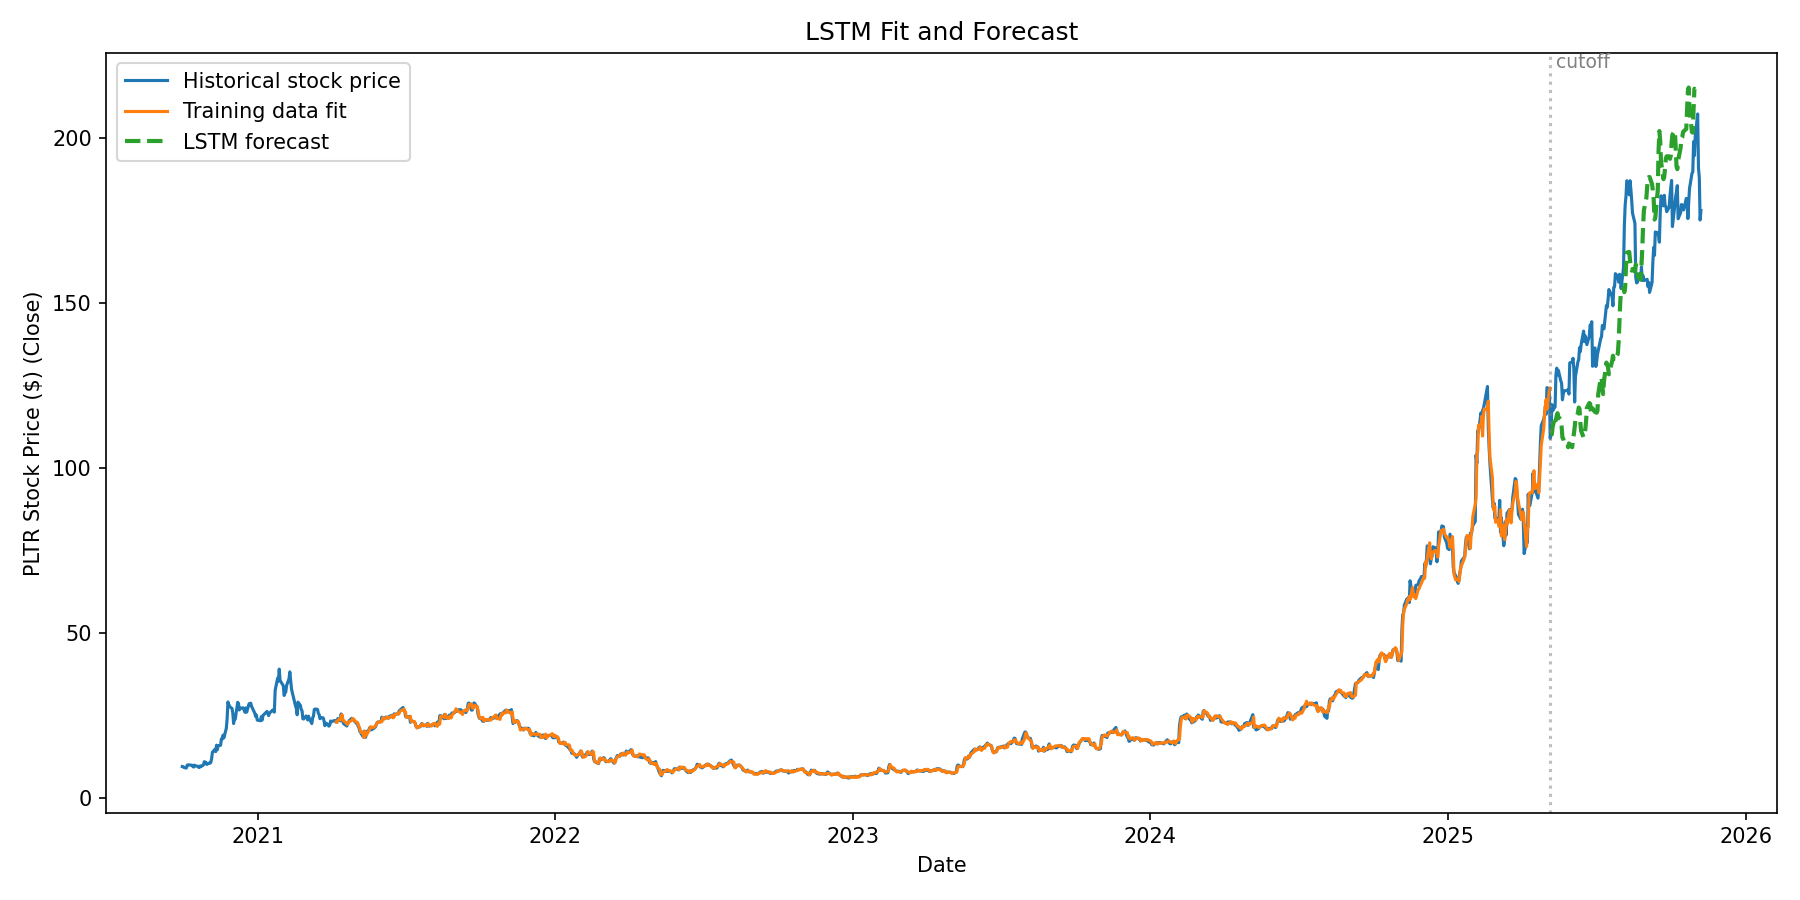
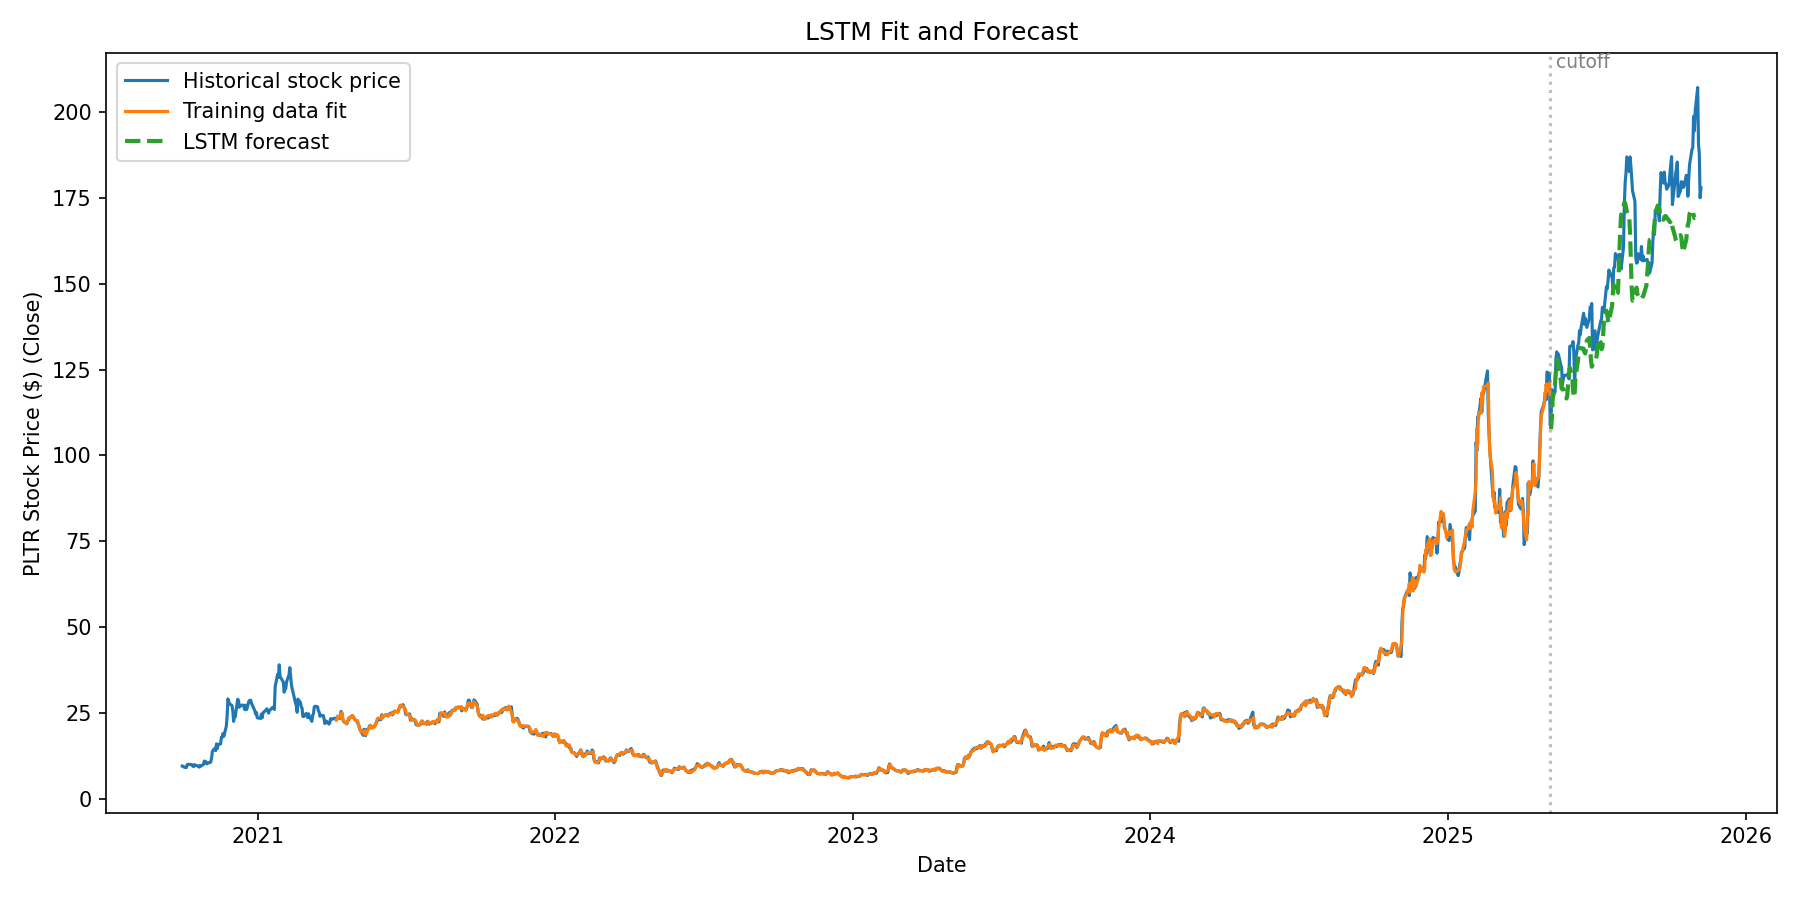
Deep layers and dropout probability included

diff --git a/train_lstm.py b/train_lstm.py
@@ -39,12 +39,14 @@ import sys
 
 # ---------------- Hyper-parameters ----------------
 cutoff = 0.9            # Fraction of data (from start) used for training
-horizon = 270           # Number of future week days for forecasting (weekends ignored)
-seq_len = 270           # Lookback window length, e.g. 1 (daily), 30 (monthly), 90 (quarterly)
+horizon = 128           # Number of future week days for forecasting (weekends ignored)
+seq_len = 128           # Lookback window length, e.g. 1 (daily), 30 (monthly), 90 (quarterly)
 hidden_len = 64         # Dimension of the hidden state
 epochs = 1000           # Number of iterations 
 batch_size = 64         # Number of training samples processed per optimizer step
 lr = 1e-3               # Learning rate
+num_layers = 2          # Number of deep layers
+dropout = 0.4           # Dropout probability
 
 # ────────────────────────────────────────────────────────────────────────────────
 # Helper utilities
@@ -149,8 +151,6 @@ def main():
     ap.add_argument("--csv", required=True, type=str, help="CSV with Date,Open,High,Low,Close,Volume")
     ap.add_argument("--feature", default="Close", type=str)
     ap.add_argument("--target", default="logretrun", choices=["pirce", "logreturn", "delta".replace(",", "")], help="Prediction target (default: logretrun)")
-    ap.add_argument("--num_layers", default=1, type=int)
-    ap.add_argument("--dropout", default=0.0, type=float)
     ap.add_argument("--normalize", default="standard", choices=["standard", "minmax"], help="Normalization on target series (default: standard)")
     ap.add_argument("--outdir", default="artifacts", type=str)
     args = ap.parse_args()
@@ -217,6 +217,8 @@ def main():
 
     # ---------------- Normalization on training only data in target space ----------------
     work_train = work[:cutoff_idx_work]
+
+    # Minmax normalization
     if args.normalize == "minmax":
         w_min, w_max = float(np.min(work_train)), float(np.max(work_train))
         if w_max == w_min:
@@ -224,10 +226,14 @@ def main():
         def norm(v):   return (v - w_min) / (w_max - w_min)
         def denorm(v): return v * (w_max - w_min) + w_min
         norm_params = {"type": "minmax", "min": w_min, "max": w_max}
+    # Standardization (Z-Score normalization)
     else:
-        mu, sigma = float(np.mean(work_train)), float(np.std(work_train) + 1e-12)
-        def norm(v):   return (v - mu) / sigma
-        def denorm(v): return v * sigma + mu
+        mu = float(np.mean(work_train)) # Mean
+        sigma = float(np.std(work_train) + 1e-12) # Standard deviation
+        def norm(v):
+            return (v - mu) / sigma
+        def denorm(v):
+            return v * sigma + mu
         norm_params = {"type": "standard", "mean": mu, "std": sigma}
     work_norm = norm(work)
 
@@ -235,7 +241,7 @@ def main():
     X_all, Y_all = make_sequences_multi(work_norm, seq_len, horizon)
 
     # Each label corresponds to the first horizon step at work index i
-    label_indices = np.arange(seq_len, Nw - horizon + 1)
+    label_indices = np.arange(seq_len, Nw - horizon + 1) # e.g. [270, 271, ... , 2460]
     train_mask = label_indices < cutoff_idx_work
     X_train, Y_train = X_all[train_mask], Y_all[train_mask]
 
@@ -245,7 +251,7 @@ def main():
     # ---------------- 1. The model ----------------
     device = torch.device("cuda" if torch.cuda.is_available() else "cpu")
     print_device_info()
-    model = LSTMRegressor(input_size=1, hidden_len=hidden_len, num_layers=args.num_layers, dropout=args.dropout, horizon=horizon).to(device)
+    model = LSTMRegressor(input_size=1, hidden_len=hidden_len, num_layers=num_layers, dropout=dropout, horizon=horizon).to(device)
 
     # ---------------- 2. Loss and optimizer ----------------
     loss_fn = nn.MSELoss()
@@ -293,8 +299,8 @@ def main():
         "horizon": horizon,
         "seq_len": seq_len,
         "hidden_len": hidden_len,
-        "num_layers": args.num_layers,
-        "dropout": args.dropout,
+        "num_layers": num_layers,
+        "dropout": dropout,
         "cutoff": cutoff,
         "normalize": norm_params,
         "optimizer": "adam",

diff --git a/predict_lstm.py b/predict_lstm.py
@@ -7,7 +7,7 @@ Predict the next H steps directly (no recursion) using the trained multi-horizon
 For logreturn/delta targets, reconstruct the PRICE path.
 
 To run (for example PLTR stock):
-    python predict_lstm.py --csv data/PLTR.csv --artifacts artifacts
+    python plot_series.py --csv data/PLTR.csv --artifacts artifacts
 """
 
 # ---------------- Import required libraries and dependencies ----------------
